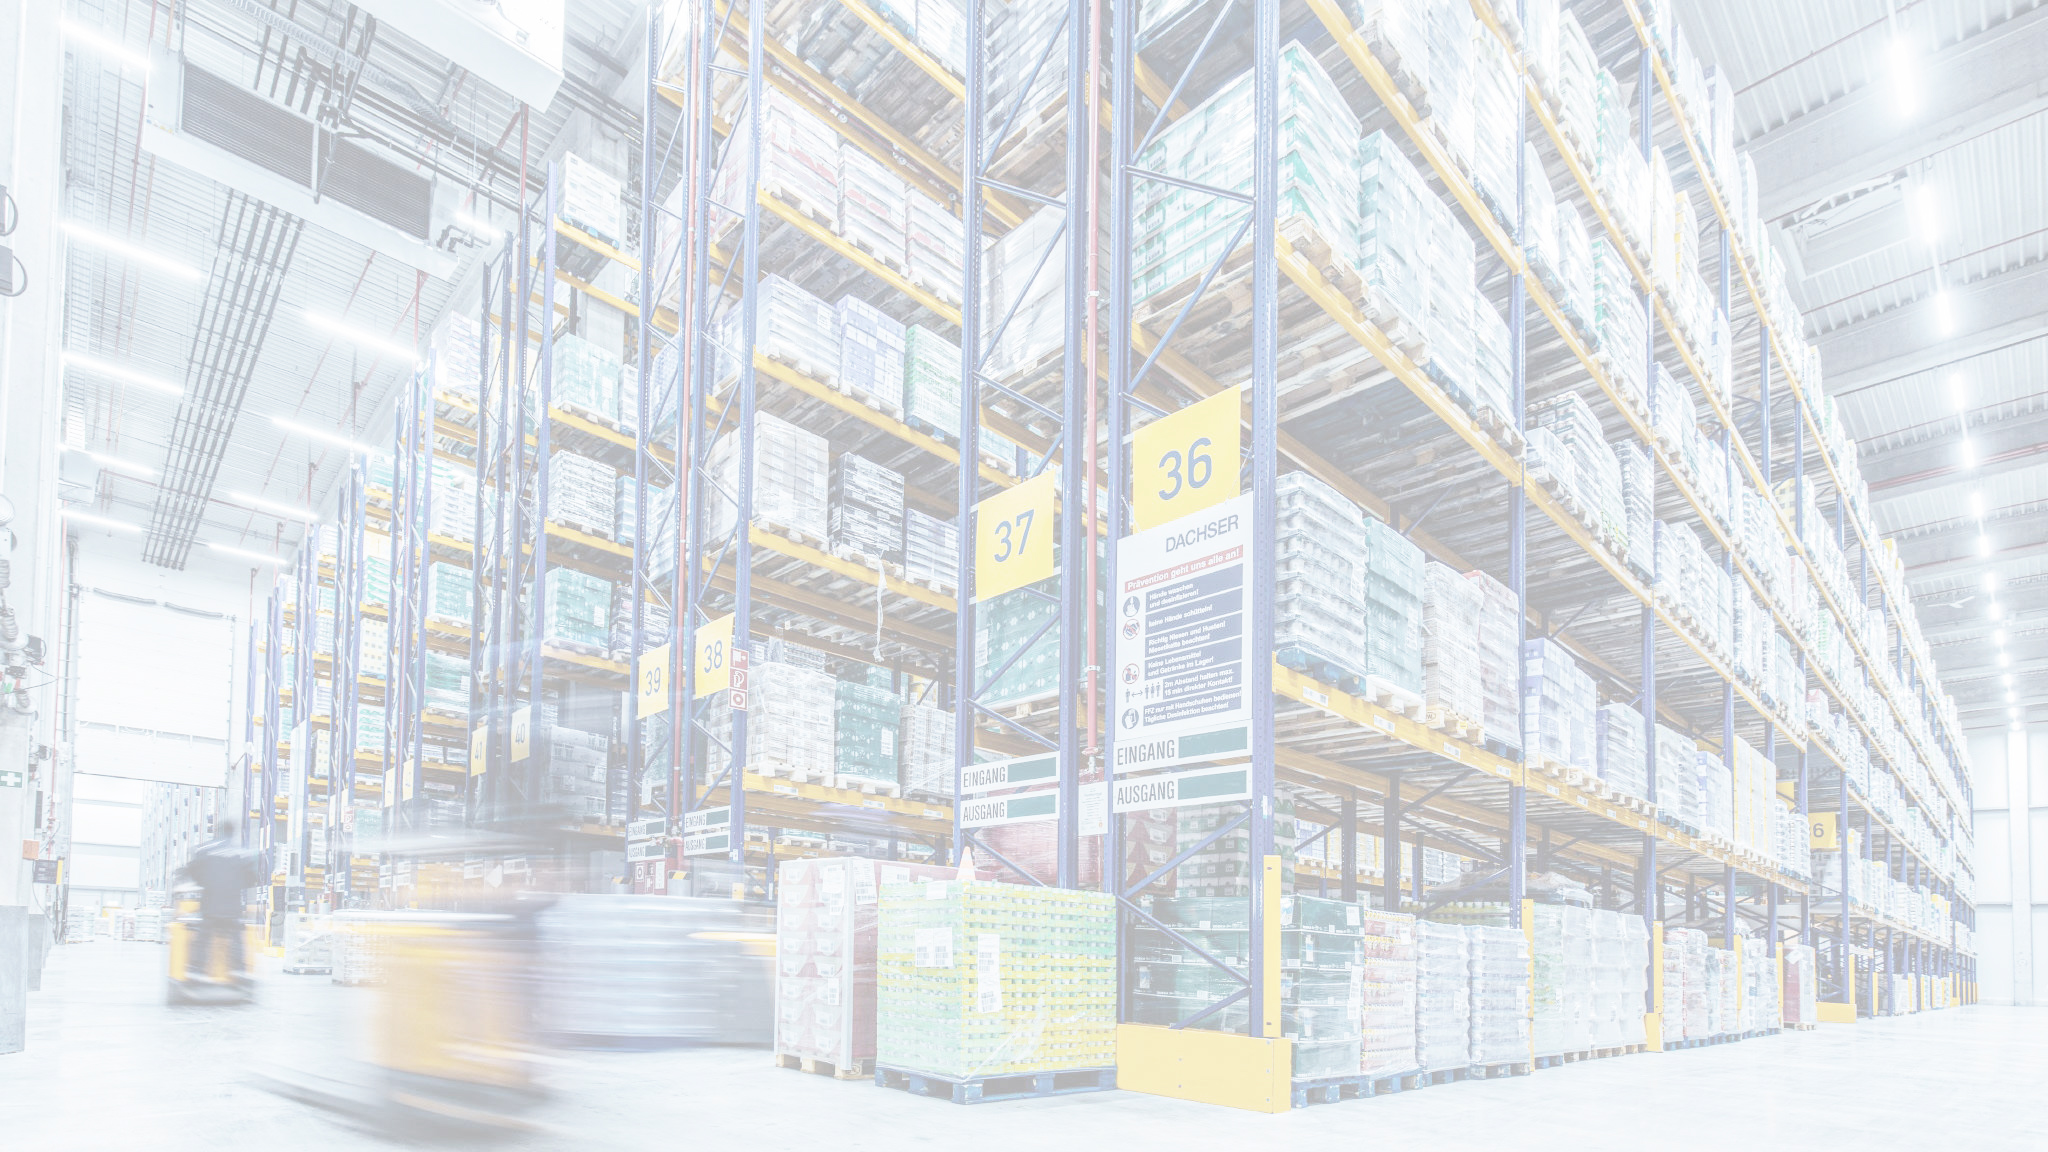
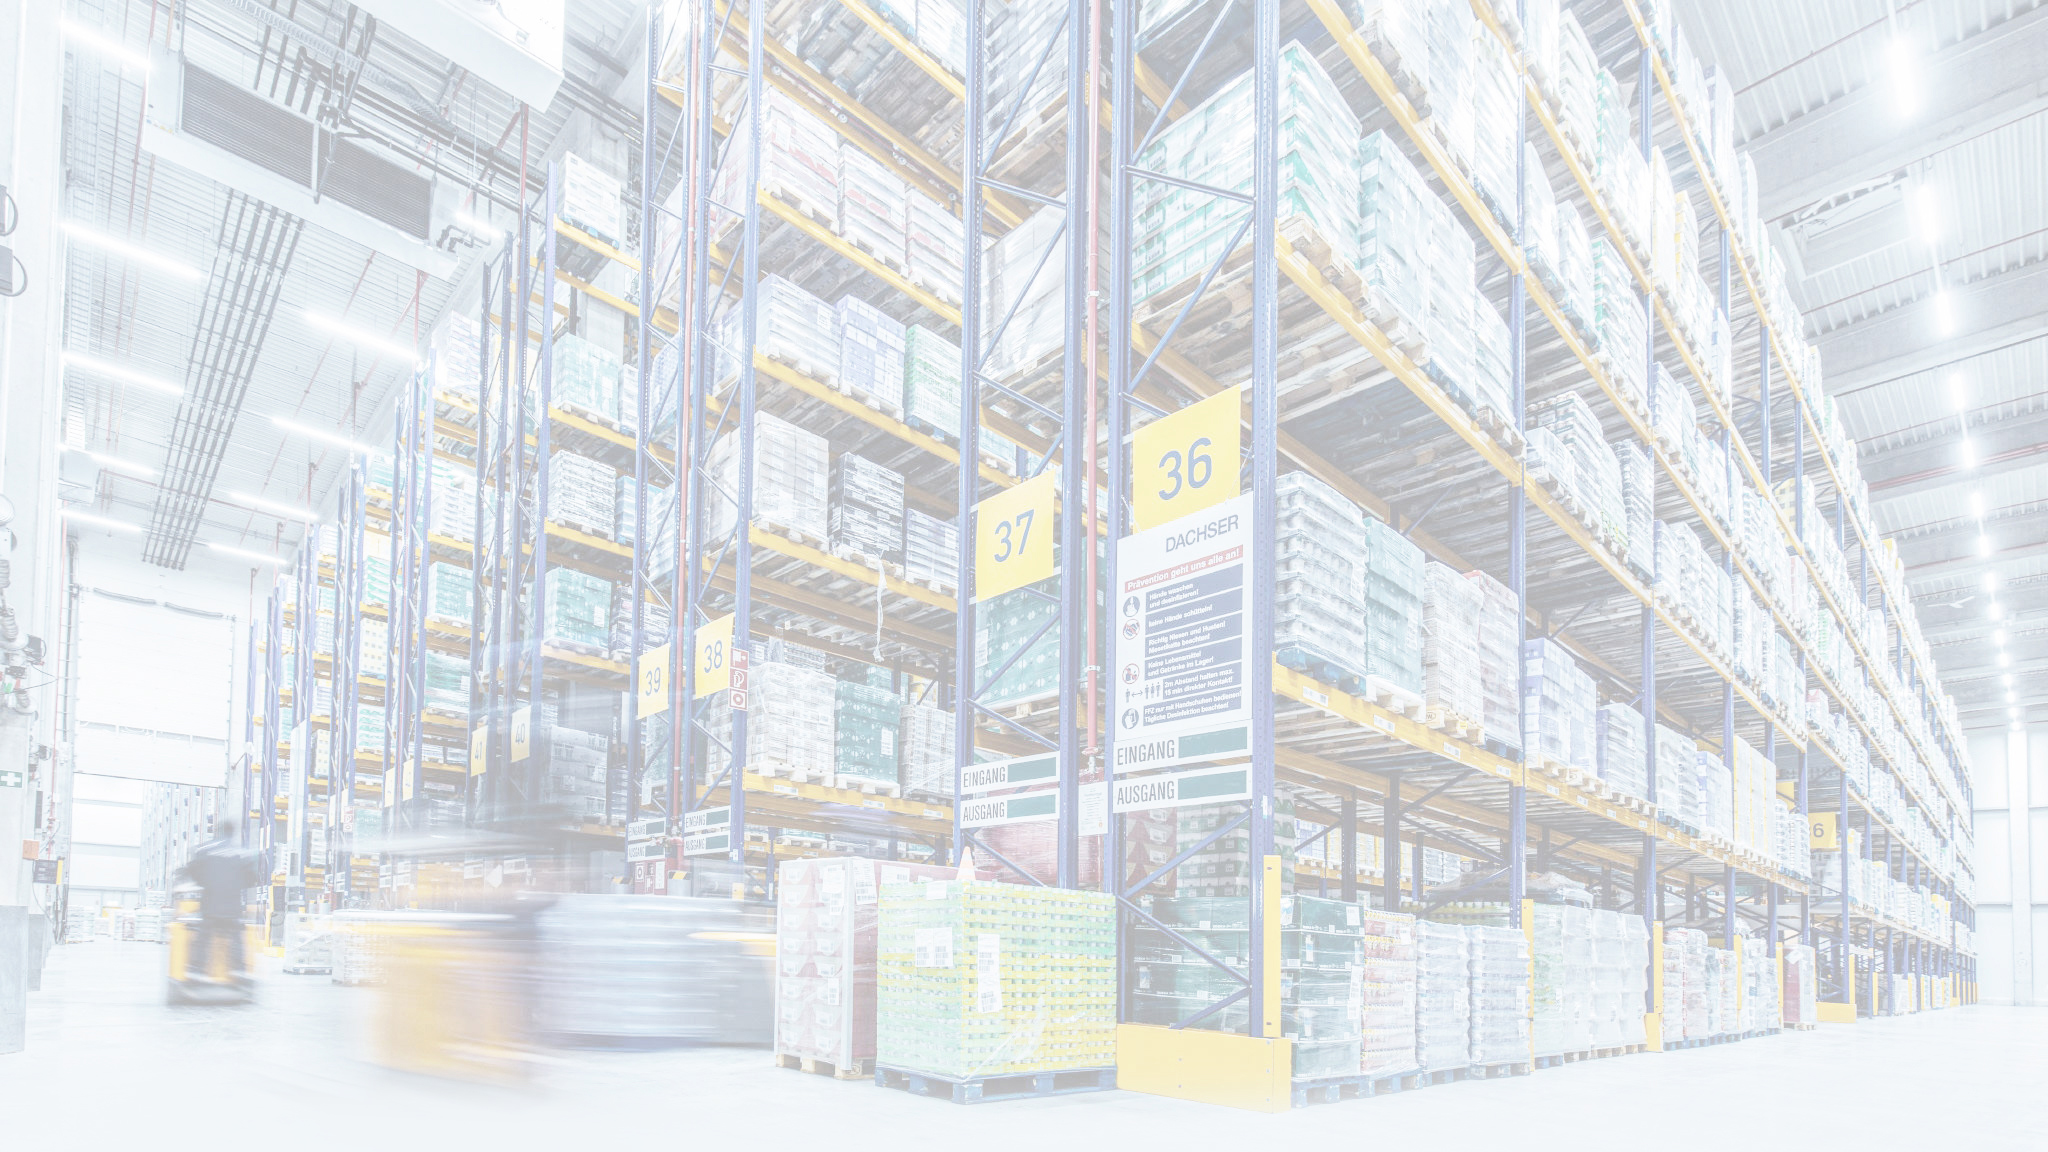
img fixed

Changed region(s): [[0.125, 0.9375, 0.2812, 1.0], [0.5938, 0.9375, 0.6562, 0.9688]]

diff --git a/src/components/navbar/Navbar.jsx b/src/components/navbar/Navbar.jsx
@@ -12,7 +12,7 @@ export default function Navbar () {
     return(
         <div className='nav'>
         <div className='navbarwrap'> 
-            <div className='bkg' style={toggle ? {left:0} : {right:0}}></div>
+            <div className='bkg' style={toggle ? {left:0} : {left:100}}></div>
             <Link to='/' className='link'>
             <div className={toggle ? "navActive left" : "navItem left"} onClick={()=>setToggle(true)}>Перевірити ТТН</div>
             </Link>

diff --git a/src/pages/CheckTTN/checkttn.css b/src/pages/CheckTTN/checkttn.css
@@ -18,7 +18,9 @@
     padding: 150px 20px 150px 20px;
     background-image: url('./cover1.jpg');
     opacity: 1;
-    background-size: cover;
+    background-size:auto;
+    background-repeat: no-repeat;
+    background-color: #f2f6f9;
     z-index: -20;
  }
  .wrapSec {
